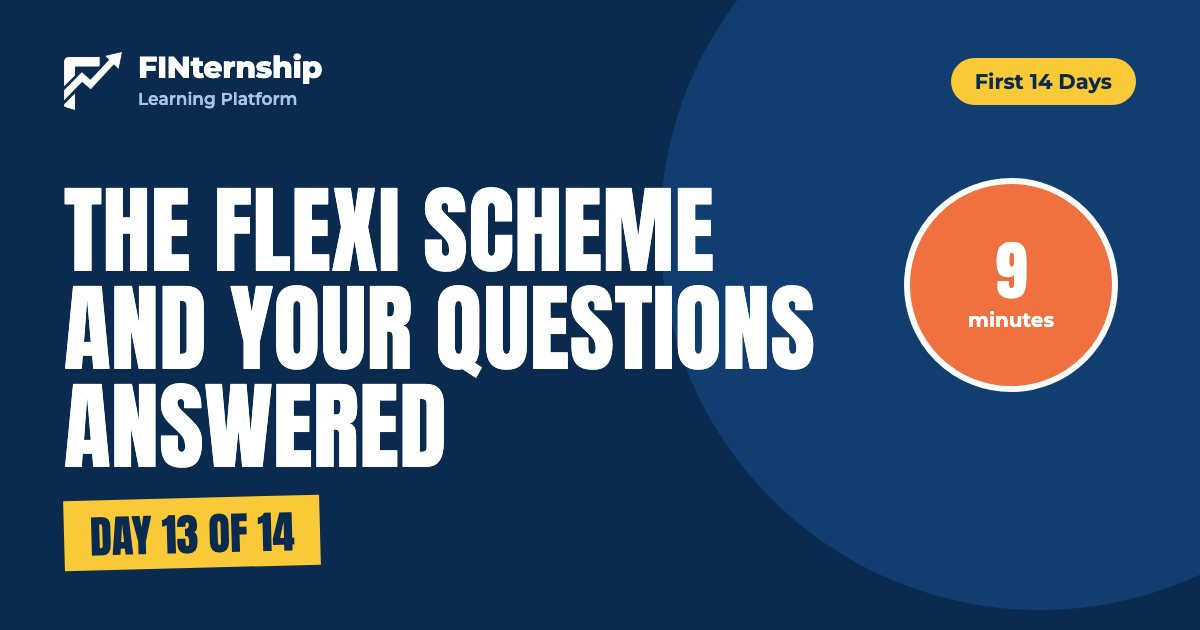
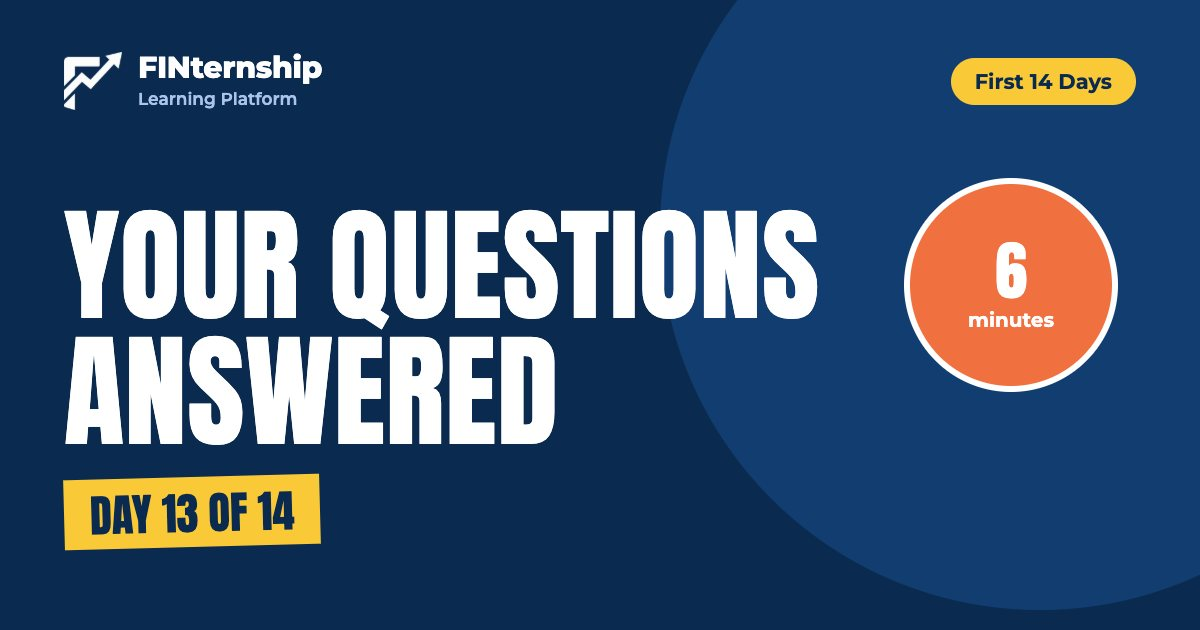
improve: First 14 Days Day 13 is just the candidate FAQ, without the Flexi scheme, income guarantee or the income and activity numbers
Day 14 no longer points readers back to Day 13 for the Flexi scheme, and Day 13's
title, preview card and search headings match what is left.

Changed region(s): [[0.0308, 0.2714, 0.6783, 0.9048], [0.8325, 0.3921, 0.8633, 0.4524]]

diff --git a/src/features/global-search/headingIndex.ts b/src/features/global-search/headingIndex.ts
@@ -1,6 +1,6 @@
 // AUTO-GENERATED by scripts/build-search-index.ts. Do not edit by hand.
 // Regenerate after changing day markdown files: bun scripts/build-search-index.ts
-// Rows: 3370 (f60: 1330, pm: 991, n60: 938, f14: 111)
+// Rows: 3362 (f60: 1330, pm: 991, n60: 938, f14: 103)
 
 export type HeadingTrack = "f60" | "pm" | "n60" | "f14";
 
@@ -80,8 +80,6 @@ export const HEADING_INDEX: HeadingRow[] = [["f14",1,2,"How these 14 days work",
 ["f14",12,3,"What was uni life like as a student advisor? Did you still have time for a CCA and friends?","what-was-uni-life-like-as-a-student-advisor-did-you-still-have-time-for-a-cca-and-friends"],
 ["f14",12,2,"Do you need a big office?","do-you-need-a-big-office"],
 ["f14",12,2,"Do you need an IFA for product range?","do-you-need-an-ifa-for-product-range"],
-["f14",13,2,"The Flexi scheme","the-flexi-scheme"],
-["f14",13,2,"The income guarantee","the-income-guarantee"],
 ["f14",13,2,"Your questions, answered","your-questions-answered"],
 ["f14",13,3,"1. What is the FINternship Programme, and how does it relate to AIA?","1-what-is-the-finternship-programme-and-how-does-it-relate-to-aia"],
 ["f14",13,3,"2. Will I be working for you or AIA, and how is this different from joining AIA directly?","2-will-i-be-working-for-you-or-aia-and-how-is-this-different-from-joining-aia-directly"],
@@ -101,12 +99,6 @@ export const HEADING_INDEX: HeadingRow[] = [["f14",1,2,"How these 14 days work",
 ["f14",13,3,"16. What is the minimum quota when I contract as an agent or student advisor?","16-what-is-the-minimum-quota-when-i-contract-as-an-agent-or-student-advisor"],
 ["f14",13,3,"17. What happens if I can't hit my quotas?","17-what-happens-if-i-cant-hit-my-quotas"],
 ["f14",13,3,"18. What happens if I leave halfway? Do I have to repay the CMFAS exam costs?","18-what-happens-if-i-leave-halfway-do-i-have-to-repay-the-cmfas-exam-costs"],
-["f14",13,2,"More numbers people ask about","more-numbers-people-ask-about"],
-["f14",13,3,"How much can a student advisor earn, and how many hours does it take?","how-much-can-a-student-advisor-earn-and-how-many-hours-does-it-take"],
-["f14",13,3,"How does income grow from renewals, even if I stop selling for a year?","how-does-income-grow-from-renewals-even-if-i-stop-selling-for-a-year"],
-["f14",13,3,"How does AIA help new consultants get leads?","how-does-aia-help-new-consultants-get-leads"],
-["f14",13,3,"What scripts and tools help with objections and rejection?","what-scripts-and-tools-help-with-objections-and-rejection"],
-["f14",13,3,"How many calls and meetings does it take to hit $4,000 FYC a month?","how-many-calls-and-meetings-does-it-take-to-hit-4000-fyc-a-month"],
 ["f14",14,2,"Four answers","four-answers"],
 ["f14",14,3,"Commit","commit"],
 ["f14",14,3,"Delay","delay"],

diff --git a/src/features/first-14-days/summaries.ts b/src/features/first-14-days/summaries.ts
@@ -122,10 +122,10 @@ export const DAY_SUMMARIES: DaySummary[] = [
     dayNumber: 13,
     week: 2,
     dayInWeek: 6,
-    title: "The Flexi scheme and your questions answered",
-    duration: 9,
+    title: "Your questions answered",
+    duration: 6,
     bigIdea:
-      "By default, everyone is on the zero-hour scheme with no commitment needed. The 40-hour and 80-hour schemes let you earn extra money while you complete your exams.",
+      "Reaching out to friends and family is not required. In fact, 99.9% of my clients were strangers.",
   },
   {
     dayNumber: 14,

diff --git a/docs/first-14-days/week-2/day-13.md b/docs/first-14-days/week-2/day-13.md
@@ -1,60 +1,15 @@
 ---
 week: 2
 day: 13
-title: "The Flexi scheme and your questions answered"
-big_idea: "By default, everyone is on the zero-hour scheme with no commitment needed. The 40-hour and 80-hour schemes let you earn extra money while you complete your exams."
+title: "Your questions answered"
+big_idea: "Reaching out to friends and family is not required. In fact, 99.9% of my clients were strangers."
 author: "Leo Tan"
 primary_sources:
   - "[[../../explorer/_source-articles/faqs-15-candidate-questions]]"
   - "[[../../explorer/_source-articles/financial-iq-masterclass-slides]]"
-  - "[[../../finternship-orientation/05-optional-resources---career-opportunities-in-aia/02-finternship-flexi-scheme]]"
-duration_minutes: 9
-tags: [first-14-days, week-2, prospect, faq, flexi-scheme, income-guarantee, reference, leo-voice]
+duration_minutes: 6
+tags: [first-14-days, week-2, prospect, faq, reference, leo-voice]
 ---
-
-## The Flexi scheme
-
-```stats
-title: The Flexi | scheme
-art: /first-14-days/diagrams/flexi.webp
-$1,000 | zero-hour scheme: no commitment, paid when you sign your contract || $2,600 | 40-hour scheme: $400 for each paper you pass, plus the $1,000 || $4,200 | 80-hour scheme: $800 for each paper you pass, plus the $1,000
-```
-
-By default, everyone is on the zero-hour scheme, with no commitment needed. The 40-hour and 80-hour schemes give you a chance to earn some extra money while you complete the required exams.
-
-Eligibility: 6 months or less to your ORD, or already ORD. You need to pass at least 1 CMFAS paper to take part.
-
-On the 40-hour scheme, you get $400 for each paper you pass, once your cumulative work hours reach the next mark:
-
-1. Pass M9 and work 40 hours: $400
-2. Pass M9A and work 80 hours: another $400
-3. Pass HI and work 120 hours: another $400
-4. Pass RES5 and work 160 hours: another $400
-
-The 80-hour scheme follows the same structure, but you get $800 for each paper you pass.
-
-When you sign your financial advisor contract, you get a $1,000 onboarding incentive on top. So the 40-hour scheme comes to $2,600 in total, and the 80-hour scheme to $4,200. On the zero-hour scheme, you still get the $1,000.
-
-Your hours don't reset after each exam. They keep adding up. You're paid by bank transfer once you've clocked the hours and passed the paper. If you finish 40 hours before you pass M9, the first $400 is back-paid when you pass.
-
-Some common questions:
-
-- What if I don't pass the exam? You must pass to receive the payout.
-- Can I move from the 40-hour to the 80-hour scheme? Yes. Keep working up to 80 hours and you get $800 after passing the next exam.
-- Can I move down from 80 to 40? Yes. If you worked 40 hours but passed only one exam, you get $400.
-- What's the weekly schedule? You're self-employed, so you set your own hours. On the days you work, you send me an end-of-day report with what you did, your hours, what you learned, what got in the way, and what's next.
-- What doesn't count as work hours? Studying for exams, reading or watching course videos, attending training meetings, and attending job-shadowing meetings.
-- Is there a 160-hour scheme? Yes. Ask me about it. It pays $1,600 for each exam you pass.
-- What roles can I do? See the [roles open on the Flexi scheme](https://www.canva.com/design/DAGiCqrnR30/42raJ_S9C885Y52KaRFm-Q/view).
-- Do I have to pay the money back if I decide not to be a financial advisor? No. The Flexi scheme is separate from becoming an advisor. You can be a full-time, part-time or even "no-time" advisor (you hold the licence but don't practise).
-
-## The income guarantee
-
-![[first-14-days/images/income-guarantee.jpeg|Income guarantee: $2,000 or $4,000 a month for the first full year]]
-
-Once you're licensed, we personally guarantee an average income of $2,000 a month ($4,000 if you're full-time) for your first full year as a student or full-time advisor.
-
-The conditions: it applies after your first 3 months, and you have to follow all the FINternship training methods and apply all the techniques we teach. If you do all of that and still fall short, I pay you the difference myself.
 
 ## Your questions, answered
 
@@ -161,35 +116,6 @@ There's no termination. You just won't receive the EPS bonus for that month. We 
 Yes. If you don't contract, you'll need to reimburse the exam fees we sponsored.
 
 If you pass the exams and contract, but later decide it's not for you, you keep everything. No repayment is needed.
-
-## More numbers people ask about
-
-### How much can a student advisor earn, and how many hours does it take?
-
-The average student advisor earns about $61,000 a year. I made $145k in my first year as a full-time NUS engineering student, on 20 to 30 hours a week. Gabriel and Benjamin each hit $10k a month within their first two months. For $4,000 to $5,000 a month, plan on about 75 hours of work a month, which is under 20 hours a week.
-
-### How does income grow from renewals, even if I stop selling for a year?
-
-Three layers stack up. Renewal commissions are paid every year that clients keep paying premiums. AIA's Career Benefit adds to your renewals. From year 7, the Accumulated Premium Fund (APF) pays 1 to 1.5% of monthly premiums for the policy term. By year 6, my passive income alone was over $100k a year.
-
-### How does AIA help new consultants get leads?
-
-AIA's NASA leads cost about $6 each. AIA sponsors 50 leads for new consultants, and managers often subsidise another 25%, which brings the cost down to just over $1 a lead. My team adds its own lead funnel, ad subsidies and appointment setters on top.
-
-### What scripts and tools help with objections and rejection?
-
-The ART framework (acknowledge, relate, throw it back) turns an objection into a conversation. Pre-framing deals with the common objections before the client raises them. "Ask for a no" means asking "would you be against me sharing this?" instead of "are you open to meeting?". You also get the concept presentation I've refined over 7 years, referral scripts, flowcharts, and the iSmart CRM.
-
-### How many calls and meetings does it take to hit $4,000 FYC a month?
-
-| Metric | Monthly | Weekly | Daily |
-|---|---|---|---|
-| Cases closed | 5 | 1.25 | |
-| Appointments (20% close rate) | 25 | 6 | 2 |
-| Prospecting and calling hours | 50 | 12 | 1.5 to 2 |
-| Total work hours | 75 | about 18 | |
-
-For $10,000 FYC a month, roughly double the activity.
 
 ---
 

diff --git a/docs/first-14-days/week-2/day-14.md b/docs/first-14-days/week-2/day-14.md
@@ -12,7 +12,7 @@ duration_minutes: 5
 tags: [first-14-days, week-2, prospect, decision, graduation, timeline, leo-voice]
 ---
 
-You've seen the business model, the math, the agency question, the 6 C's, the common worries and the Flexi scheme, so today you decide.
+You've seen the business model, the math, the agency question, the 6 C's, the common worries and my answers to your questions, so today you decide.
 
 ## Four answers
 
@@ -83,7 +83,7 @@ Over the next few months you'll mainly focus on clearing the CMFAS papers, atten
 
 Commit at least 2 to 3 hours a day to studying for the CMFAS papers. Be proactive in asking the right questions and reaching out for help. If you clear the exams quickly, you get a fast-completion reward.
 
-If you need some allowance, ask us about the Flexi scheme from Day 13, where you're paid for helping me with business development work.
+If you need some allowance, ask us about the Flexi scheme, where you're paid for helping me with business development work.
 
 It's optional, but you can also register for the AIA Internship Programme to earn extra money.
 

diff --git a/docs/first-14-days/week-2/README.md b/docs/first-14-days/week-2/README.md
@@ -18,7 +18,7 @@ Week 1 looked at the business model. Week 2 looks at the agency, and at you.
 - [Day 10: Getting clients without relying on friends](/learning-track/first-14-days/day/10). Your warm market gets you started. The cold market is where you grow.
 - [Day 11: No experience, and not an extrovert](/learning-track/first-14-days/day/11). I started from zero, with a stammer.
 - [Day 12: Limited time, office size and product range](/learning-track/first-14-days/day/12). How I built the business on 2 hours a day during GEP.
-- [Day 13: The Flexi scheme and your questions answered](/learning-track/first-14-days/day/13). How you get paid while you take your exams, and my answers to the questions candidates ask most.
+- [Day 13: Your questions answered](/learning-track/first-14-days/day/13). My answers to the questions candidates ask most.
 - [Day 14: Your decision and your timeline with us](/learning-track/first-14-days/day/14). Pick your answer, and see what happens next.
 
 ## Four answers
